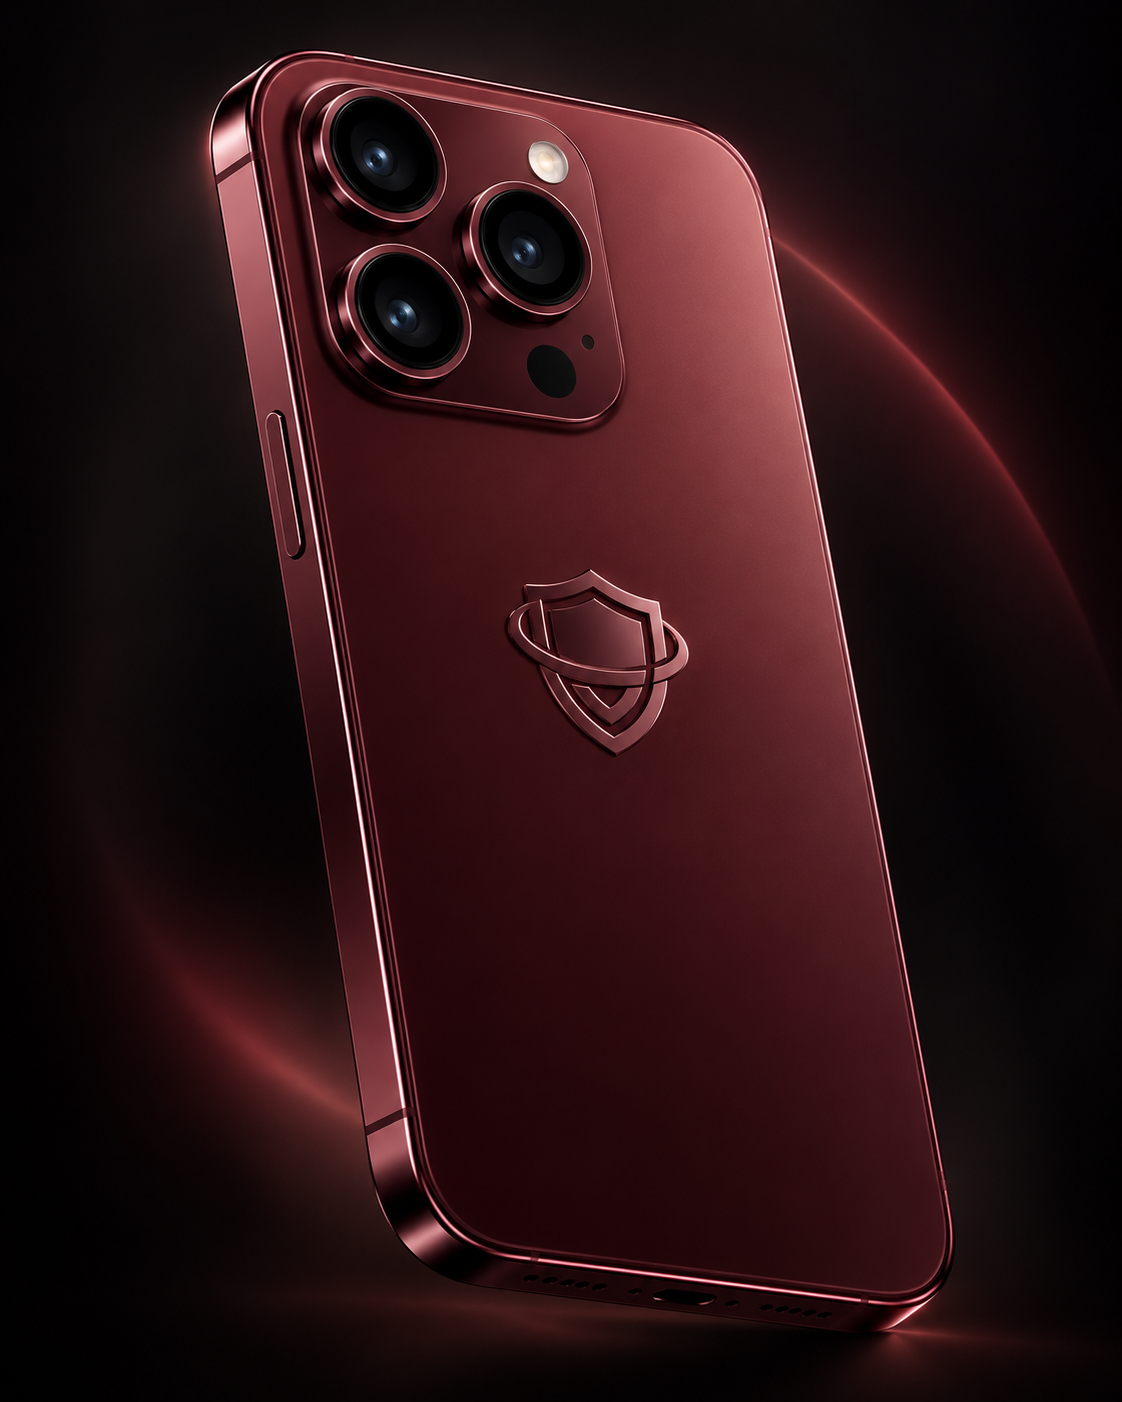
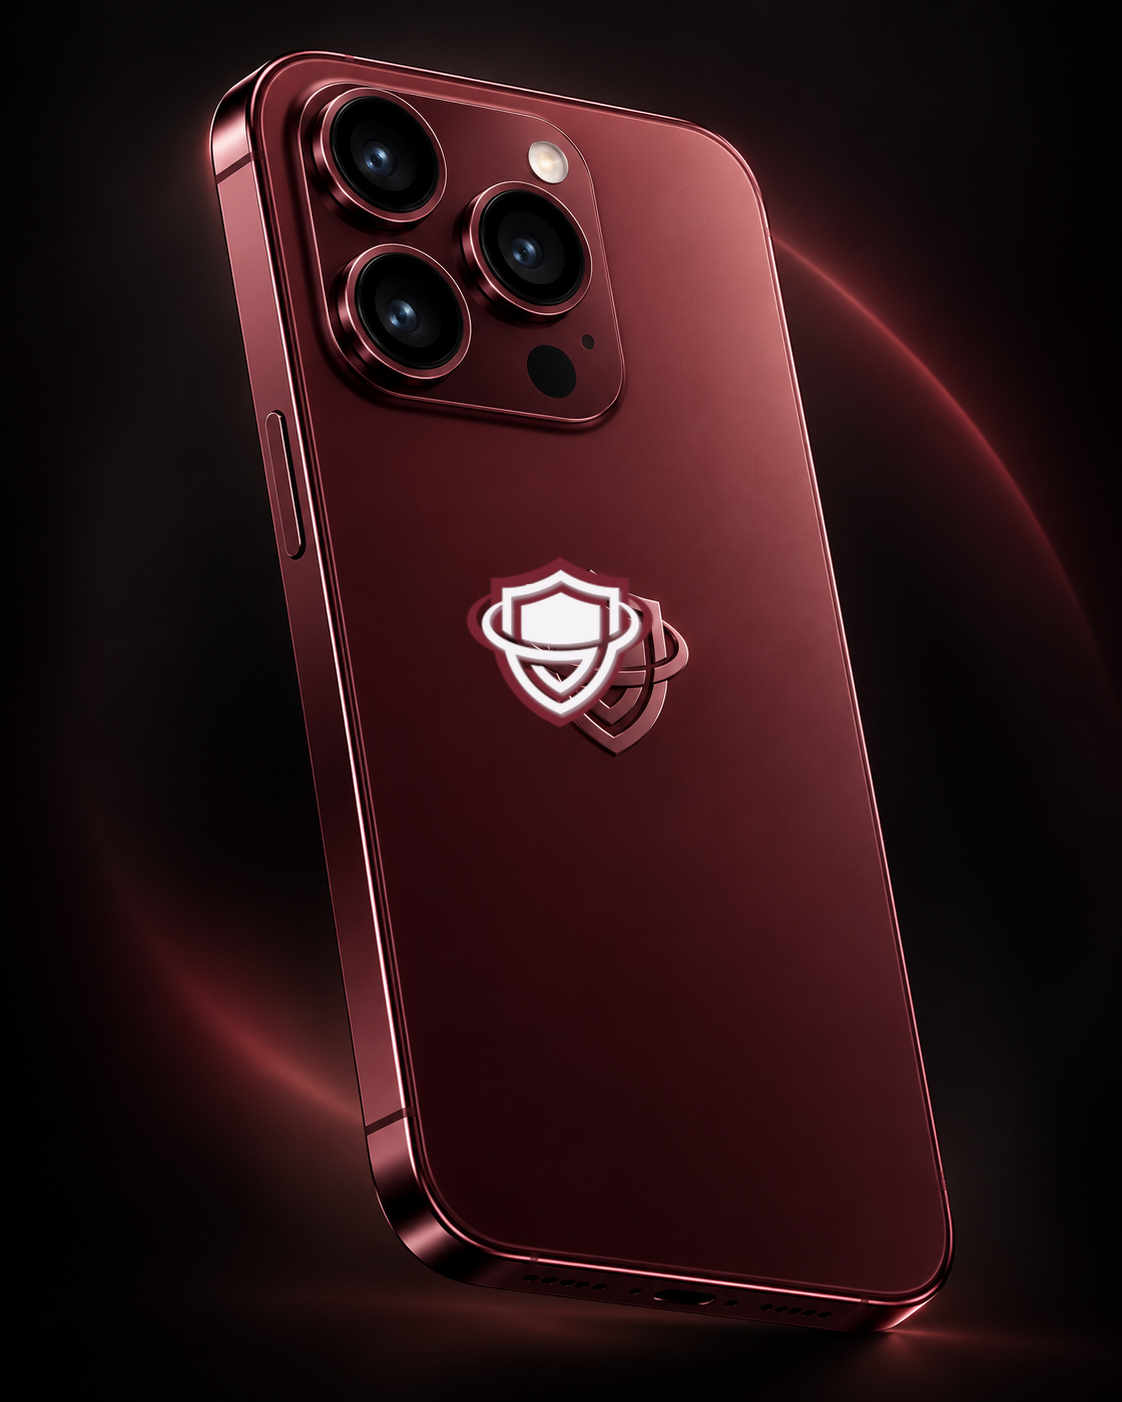
Add files via upload

Changed region(s): [[0.4055, 0.3987, 0.5927, 0.5214]]

diff --git a/index.html b/index.html
@@ -28,8 +28,8 @@
     .hero h1{font-size:clamp(64px,7.9vw,118px);letter-spacing:-.09em;line-height:.91;margin:36px 0 29px;font-weight:800;position:relative;z-index:3}.hero h1 em{font-style:normal;color:#898c90}.hero-copy>p{font-size:17px;color:#adb1b6;line-height:1.7;max-width:475px;margin:0 0 36px}
     .hero-cta{display:flex;gap:24px;align-items:center;flex-wrap:wrap}.hero-cta span{font-size:11px;max-width:180px;line-height:1.6;color:#888c91}
     .hero-art{height:640px;position:relative;display:grid;place-items:center;justify-self:end}.rings{position:absolute;width:490px;height:490px;border:1px solid #ffffff1c;border-radius:50%;box-shadow:0 0 0 70px #ffffff06,0 0 0 145px #ffffff05}
-    .hero-product{position:relative;z-index:2;width:min(460px,100%);display:block;filter:drop-shadow(0 32px 60px rgba(0,0,0,.42))}.hero-product img{display:block;width:100%;height:auto}
-    .float-tag{position:absolute;top:122px;right:6px;transform:rotate(-7deg);background:#f5f5f3;color:#161718;padding:14px 18px;box-shadow:10px 18px 34px #0004;z-index:3}.float-tag b{display:block;font-size:36px;line-height:1;letter-spacing:-.08em}.float-tag small{font-size:9px;font-weight:800;text-transform:uppercase;letter-spacing:.09em}
+    .hero-product{position:relative;z-index:2;width:min(366px,100%);display:block;filter:drop-shadow(0 24px 42px rgba(0,0,0,.66))}.hero-product img{display:block;width:100%;height:auto;object-fit:contain}
+    
     .hero-baseline{border-top:1px solid #ffffff30;display:flex;justify-content:space-between;align-items:center;padding:20px 0;color:#858a8e;font-size:10px;letter-spacing:.14em;font-weight:800;text-transform:uppercase}
     .metrics{background:#e5e5e3}.metric-grid{display:grid;grid-template-columns:repeat(4,1fr)}.metric{padding:37px 20px 41px;border-right:1px solid #c9c9c7}.metric:first-child{padding-left:0}.metric:last-child{border-right:none}.metric strong{display:block;font-size:clamp(42px,5.5vw,75px);letter-spacing:-.09em;line-height:1.04}.metric span{display:block;margin-top:9px;color:#727577;font-weight:700;font-size:12px}
     .section{padding:122px 0}.section-head{display:flex;align-items:flex-end;justify-content:space-between;gap:40px;margin-bottom:52px}.section h2{font-size:clamp(46px,6vw,89px);letter-spacing:-.078em;line-height:.97;margin:21px 0 0}.section .lead{max-width:390px;font-size:15px;line-height:1.78;color:#787b7d;margin:0 0 7px}
@@ -80,10 +80,10 @@
     @keyframes float{0%,100%{transform:rotate(14deg) translateY(7px)}50%{transform:rotate(12deg) translateY(-9px)}}
     @media(max-width:1130px){.wrap{width:calc(100% - 64px)}.nav .wrap{gap:20px}.links{gap:16px}.hero h1{font-size:clamp(62px,8.2vw,105px)}.hero-art{transform:scale(.86)}.about-grid{gap:55px}.finance-grid{gap:50px}.card{padding:28px}}
     @media(max-width:780px){html{scroll-padding-top:75px}.wrap{width:calc(100% - 40px)}.nav{height:72px}.logo img{width:143px}.logo small{display:none}.nav .btn{display:none}.menu{display:block}.links{position:absolute;left:0;right:0;top:72px;background:#191a1b;border-top:1px solid #444;display:none;flex-direction:column;gap:25px;padding:27px 20px 32px;font-size:15px}.links.open{display:flex}
-      .hero-inner{display:block;min-height:0}.hero-copy{padding:74px 0 18px}.hero h1{font-size:clamp(59px,11vw,90px)}.hero-copy>p{font-size:15px}.hero-art{height:400px;transform:scale(.78);transform-origin:center 28%;margin:-6px 0 -14px}.hero-baseline{font-size:9px}.hero-baseline span:last-child{display:none}
+      .hero-inner{display:block;min-height:0}.hero-copy{padding:74px 0 18px}.hero h1{font-size:clamp(59px,11vw,90px)}.hero-copy>p{font-size:15px}.hero-art{height:520px;transform:none;margin:0 auto;justify-self:stretch}.hero-product{width:min(300px,80vw)}.rings{width:340px;height:340px;box-shadow:0 0 0 55px #ffffff06,0 0 0 115px #ffffff05}.hero-baseline{font-size:9px}.hero-baseline span:last-child{display:none}
       .metric-grid{grid-template-columns:repeat(2,1fr)}.metric{border-bottom:1px solid #c9c9c7;padding:24px 17px}.metric:nth-child(odd){padding-left:0}.metric:nth-child(even){border-right:0}.metric:nth-child(n+3){border-bottom:0}.metric strong{font-size:58px}
       .section{padding:78px 0}.section-head{display:block;margin-bottom:36px}.section .lead{margin:22px 0 0}.section h2{font-size:clamp(45px,10vw,66px)}.about-grid,.product-grid,.finance-grid,.faq-grid{grid-template-columns:1fr;gap:30px}.about-intro{font-size:31px}.about-description{font-size:15px}.cards{grid-template-columns:repeat(2,1fr)}.card{min-height:245px}.price{padding:31px}.amount{font-size:67px}.step-row{grid-template-columns:repeat(2,1fr)}.step{border-bottom:1px solid #b9bbba;min-height:200px;padding:22px 15px 20px 0}.step:nth-child(even){border-right:0;padding-left:20px}.step:nth-child(odd){padding-left:0}.step h3{margin-top:35px}.bottom-cta{padding:80px 0}.bottom-cta h2{font-size:clamp(55px,11vw,83px)}.footer-bottom{display:block}.footer-bottom span{display:block;margin:10px 0}}
-    @media(max-width:450px){.hero h1{font-size:55px}.hero-cta .btn{width:100%}.hero-cta span{max-width:none}.hero-art{transform:scale(.66);margin:-14px 0 -24px}.metric strong{font-size:46px}.cards{grid-template-columns:1fr}.card{min-height:205px}.price-notes,.finance-annotations{grid-template-columns:1fr}.price-notes div+div{padding:18px 0 0;border-left:0;border-top:1px solid #424446}.amount{font-size:55px}.step h3{font-size:16px}.faq summary{font-size:16px}.footer-main{display:block}.footer-main div{text-align:left;margin-top:17px}}
+    @media(max-width:450px){.hero h1{font-size:55px}.hero-cta .btn{width:100%}.hero-cta span{max-width:none}.hero-art{height:440px;margin:0 auto}.hero-product{width:min(260px,78vw)}.rings{width:300px;height:300px;box-shadow:0 0 0 45px #ffffff06,0 0 0 90px #ffffff05}.metric strong{font-size:46px}.cards{grid-template-columns:1fr}.card{min-height:205px}.price-notes,.finance-annotations{grid-template-columns:1fr}.price-notes div+div{padding:18px 0 0;border-left:0;border-top:1px solid #424446}.amount{font-size:55px}.step h3{font-size:16px}.faq summary{font-size:16px}.footer-main{display:block}.footer-main div{text-align:left;margin-top:17px}}
     @media(prefers-reduced-motion:reduce){*,*:before,*:after{animation:none!important;transition:none!important;scroll-behavior:auto!important}.reveal{opacity:1;transform:none}}
   </style>
 </head>
@@ -101,7 +101,7 @@
         <p>Откройте собственную точку «Бронь Сервис» в своём городе. Понятный продукт, сильный бренд и поддержка команды — от первого разговора до запуска.</p>
         <div class="hero-cta"><a class="btn wa-link" href="https://wa.me/79956666614" target="_blank" rel="noopener noreferrer">Купить франшизу <span>↗</span></a><span>Напишите напрямую исполнительному директору в WhatsApp</span></div>
       </div>
-      <div class="hero-art" aria-hidden="true"><div class="rings"></div><div class="hero-product"><img src="hero-burgundy-phone.png" alt=""></div><div class="float-tag"><b>360°</b><small>защита гаджета</small></div></div>
+      <div class="hero-art" aria-hidden="true"><div class="rings"></div><div class="hero-product"><img src="hero-burgundy-phone.png" alt=""></div></div>
     </div><div class="wrap hero-baseline"><span>01 / Защита, которую выбирают</span><span>С 2019 года — Бронь Сервис</span></div></section>
     <section class="metrics"><div class="wrap metric-grid"><div class="metric"><strong>2019</strong><span>год начала работы</span></div><div class="metric"><strong>40</strong><span>открытых торговых точек*</span></div><div class="metric"><strong>45</strong><span>дней гарантии на плёнку</span></div><div class="metric"><strong>≈15</strong><span>минут на установку</span></div></div></section>
     <section class="section about" id="about"><div class="wrap about-grid">
